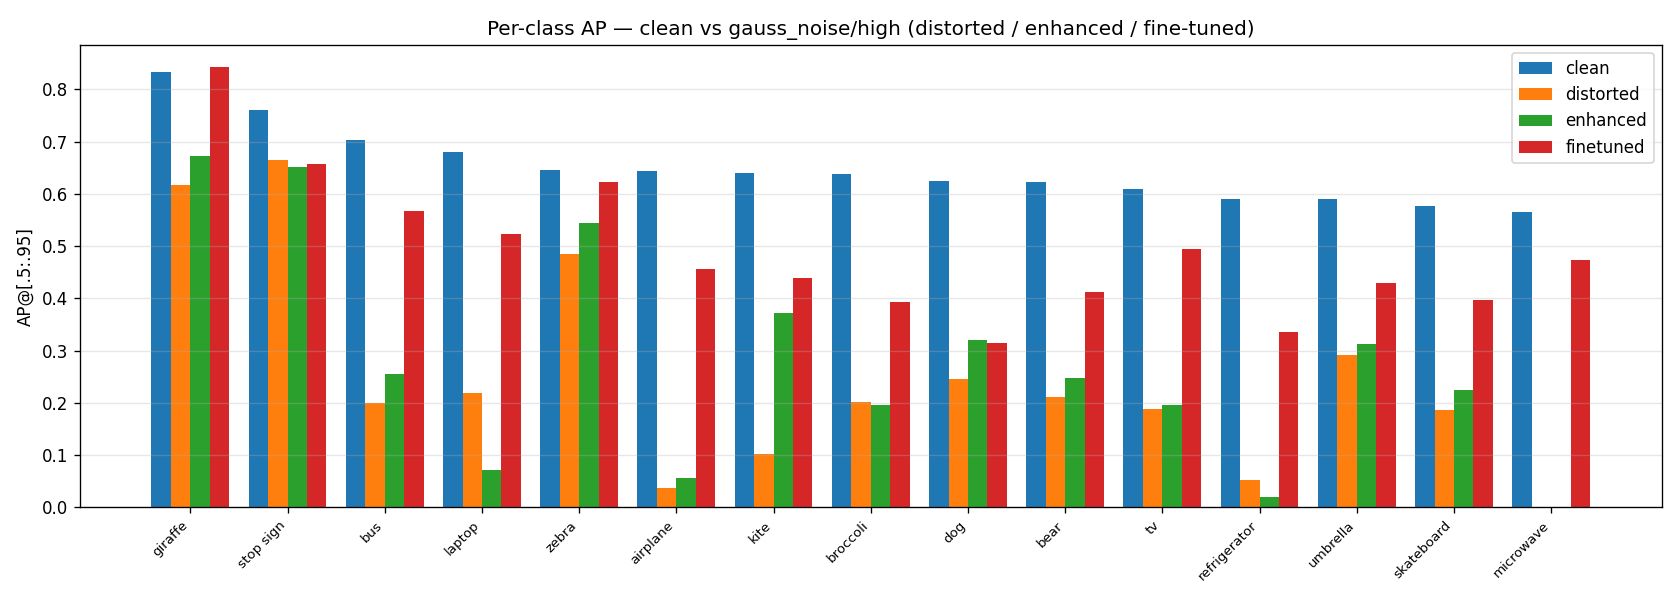
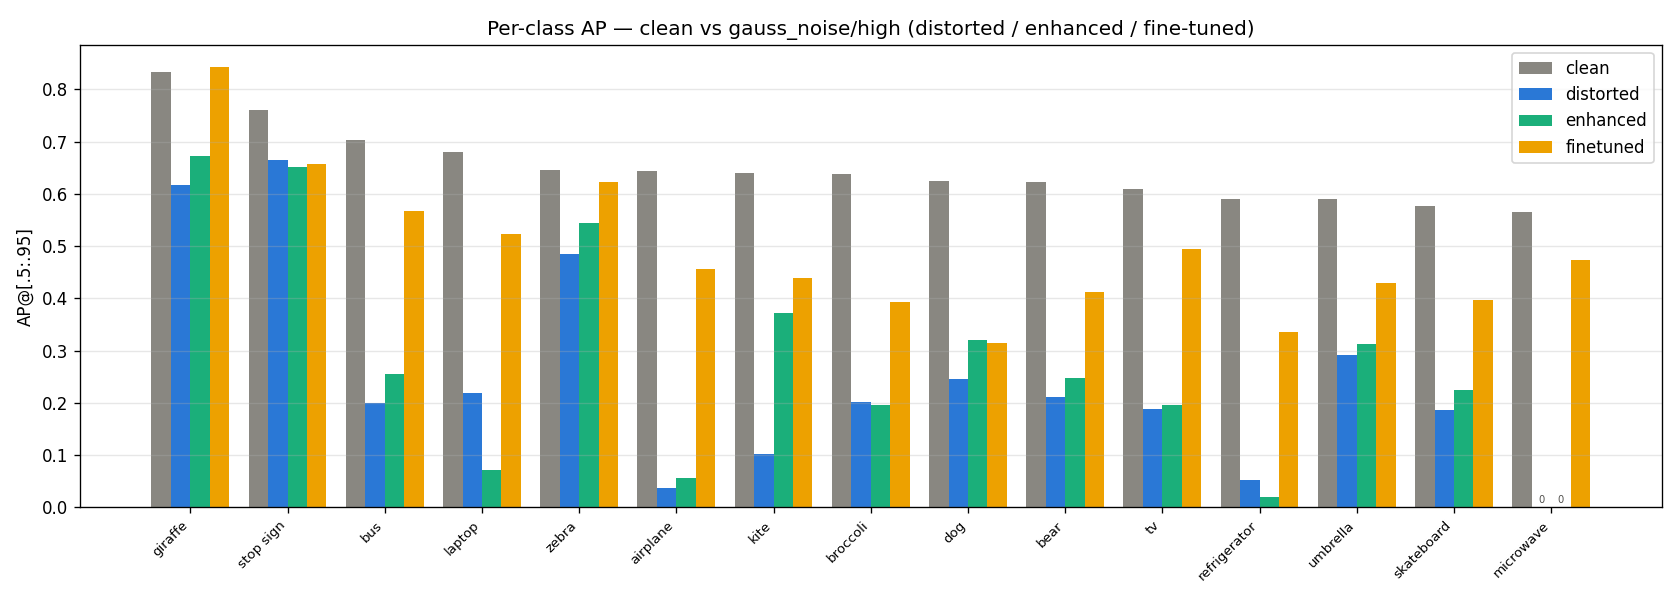
Per-class figure: mark measured-zero bars, unify variant colors
Zero-height bars (e.g. microwave AP=0.0 under gauss_noise/high for both
distorted and enhanced) looked like missing data — label them "0". Bar colors
now use the same fixed variant identity as the SNR panels (clean=gray).

Changed region(s): [[0.0929, 0.09, 0.9595, 0.87], [0.8976, 0.09, 0.9286, 0.27]]

diff --git a/src/visualize.py b/src/visualize.py
@@ -142,10 +142,16 @@ def plot_per_class_comparison(cfg: Dict, top_n: int = 15) -> None:
     x = np.arange(len(names))
     group_w = 0.8
     width = group_w / len(per_class)
+    bar_colors = {"clean": INK_MUTED,
+                  **{v: st["color"] for v, st in VARIANT_STYLE.items()}}
     plt.figure(figsize=(14, 5))
     for i, (variant, pcl) in enumerate(per_class.items()):
         vals = [pcl.get(n, np.nan) for n in names]
-        plt.bar(x + i * width, vals, width, label=variant)
+        plt.bar(x + i * width, vals, width, label=variant, color=bar_colors[variant])
+        for xi, v in zip(x + i * width, vals):
+            if v == 0:   # measured zero, not missing data — make it visible
+                plt.text(xi, 0.004, "0", ha="center", va="bottom",
+                         fontsize=6, color=INK)
     plt.xticks(x + (group_w - width) / 2, names, rotation=45, ha="right", fontsize=8)
     plt.ylabel("AP@[.5:.95]")
     plt.title(f"Per-class AP — clean vs {dtype}/{sev} (distorted / enhanced / fine-tuned)")
